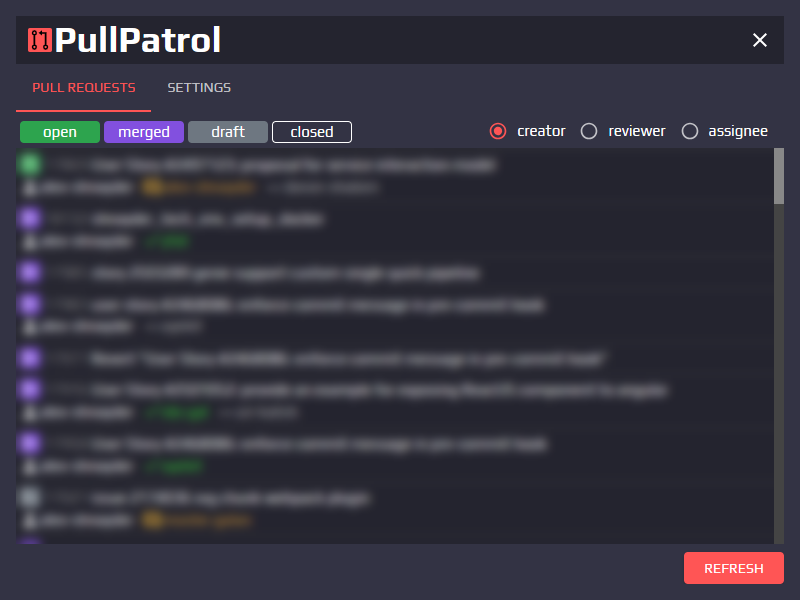
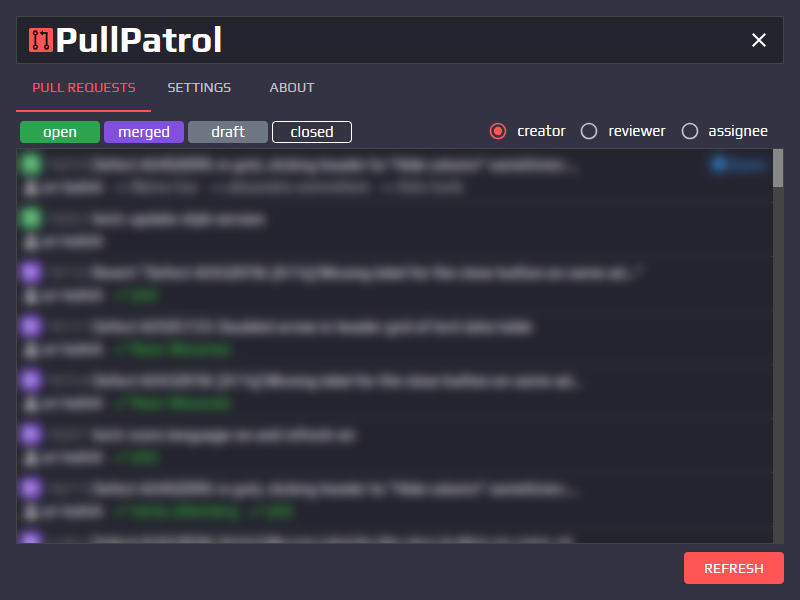
ui styling

diff --git a/client/src/views/PullRequests/PullRequests.tsx b/client/src/views/PullRequests/PullRequests.tsx
@@ -239,61 +239,63 @@ export function PullRequests({ serverUrl, gitHubUserName }: PullRequestsProps) {
                         </FormControl>
                     </div>
                 )}
-                <div className="prs-container custom-scroll">
-                    {prs.map((pr) => (
-                        <div key={pr.number} className={`pr-container content-panel ${pr.state} ${pr.myRole}`}>
-                            <div className="pr-left-side">
-                                <div className="pr-line">
-                                    <div className={`pr-state pr-state--${pr.state}`}>
-                                        <img src={stateToImg[pr.state]} className="pr-state-img" title={pr.state} alt="state image" />
-                                    </div>
-                                    <a href={pr.htmlUrl} target="_blank" className="pr-link">
-                                        <span className="pr-number">{pr.number}</span>
-                                        <span className="pr-title ellipsis" title={pr.title}>
-                                            {pr.title}
-                                        </span>
-                                    </a>
-                                </div>
-                                <div className="pr-line flex-wrap--wrap">
-                                    <div className="pr-reviewer pr-review-state--owner" title="owner">
-                                        <img src={reviewStateToImg[ReviewState.OWNER]} className="pr-review-state-img" alt="review state" />
-                                        <span className="pr-reviewer-name">{pr.creator}</span>
-                                    </div>
-                                    {pr.reviewers.map((reviewerName) => (
-                                        <div
-                                            key={reviewerName}
-                                            className={`pr-reviewer pr-review-state--${getReviewStateForReviewer(pr, reviewerName)}`}
-                                            title={getReviewStateForReviewer(pr, reviewerName).replace('_', ' ')}
-                                        >
-                                            <img src={getImgSrcForReviewState(pr, reviewerName)} className="pr-review-state-img" alt="review state" />
-                                            <span className="pr-reviewer-name">{reviewerName}</span>
+                {prs.length > 0 && (
+                    <div className="prs-container content-panel border custom-scroll">
+                        {prs.map((pr) => (
+                            <div key={pr.number} className={`pr-container ${pr.state} ${pr.myRole}`}>
+                                <div className="pr-left-side">
+                                    <div className="pr-line">
+                                        <div className={`pr-state pr-state--${pr.state}`}>
+                                            <img src={stateToImg[pr.state]} className="pr-state-img" title={pr.state} alt="state image" />
                                         </div>
-                                    ))}
-                                </div>
-                            </div>
-                            <div className="pr-right-side">
-                                {pr.builds.length > 0 && (
-                                    <>
-                                        {getLatestCustomBuilds(pr).map((b) => (
-                                            <div className="pr-line flex-wrap--wrap">
-                                                <div
-                                                    key={b.url}
-                                                    className={`custom-build custom-build--${b.inProgress ? 'running' : b.result.toLowerCase()}`}
-                                                    title={b.inProgress ? 'running' : b.result.toLowerCase()}
-                                                >
-                                                    <div className="build-led"></div>
-                                                    <a href={b.url} target="_blank" className="pr-link">
-                                                        <span className="custom-build-title">{getBuildShortName(b.jobType)}</span>
-                                                    </a>
-                                                </div>
+                                        <a href={pr.htmlUrl} target="_blank" className="pr-link">
+                                            <span className="pr-number">{pr.number}</span>
+                                            <span className="pr-title ellipsis" title={pr.title}>
+                                                {pr.title}
+                                            </span>
+                                        </a>
+                                    </div>
+                                    <div className="pr-line flex-wrap--wrap">
+                                        <div className="pr-reviewer pr-review-state--owner" title="owner">
+                                            <img src={reviewStateToImg[ReviewState.OWNER]} className="pr-review-state-img" alt="review state" />
+                                            <span className="pr-reviewer-name">{pr.creator}</span>
+                                        </div>
+                                        {pr.reviewers.map((reviewerName) => (
+                                            <div
+                                                key={reviewerName}
+                                                className={`pr-reviewer pr-review-state--${getReviewStateForReviewer(pr, reviewerName)}`}
+                                                title={getReviewStateForReviewer(pr, reviewerName).replace('_', ' ')}
+                                            >
+                                                <img src={getImgSrcForReviewState(pr, reviewerName)} className="pr-review-state-img" alt="review state" />
+                                                <span className="pr-reviewer-name">{reviewerName}</span>
                                             </div>
                                         ))}
-                                    </>
-                                )}
+                                    </div>
+                                </div>
+                                <div className="pr-right-side">
+                                    {pr.builds.length > 0 && (
+                                        <>
+                                            {getLatestCustomBuilds(pr).map((b) => (
+                                                <div className="pr-line flex-wrap--wrap">
+                                                    <div
+                                                        key={b.url}
+                                                        className={`custom-build custom-build--${b.inProgress ? 'running' : b.result.toLowerCase()}`}
+                                                        title={b.inProgress ? 'running' : b.result.toLowerCase()}
+                                                    >
+                                                        <div className="build-led"></div>
+                                                        <a href={b.url} target="_blank" className="pr-link">
+                                                            <span className="custom-build-title">{getBuildShortName(b.jobType)}</span>
+                                                        </a>
+                                                    </div>
+                                                </div>
+                                            ))}
+                                        </>
+                                    )}
+                                </div>
                             </div>
-                        </div>
-                    ))}
-                </div>
+                        ))}
+                    </div>
+                )}
             </div>
             <div className="actions-panel">
                 <Button variant="contained" onClick={handleRefresh} disabled={loading}>

diff --git a/client/src/views/Settings/Settings.tsx b/client/src/views/Settings/Settings.tsx
@@ -51,7 +51,7 @@ export function Settings({ config, onSaveConfig }: SettingsProps) {
 
     return (
         <div className="settings content-with-actions">
-            <div className="content-panel">
+            <div className="content-panel border">
                 <div className="settings-form">
                     <FormControl>
                         <TextField id="server-url" label="Server URL" variant="outlined" value={serverUrl} error={!serverUrl} onChange={handleChangeServerUrl} />

diff --git a/client/src/index.css b/client/src/index.css
@@ -75,7 +75,6 @@ body {
 
 .content-panel {
     position: relative;
-    overflow: hidden;
     background-color: rgba(0, 0, 0, 0.5);
 }
 .theme--dark .content-panel {
@@ -83,10 +82,6 @@ body {
 }
 .theme--bokeh .content-panel {
     background-color: rgba(0, 0, 0, 0.6);
-}
-
-.content-panel > div {
-    position: relative;
 }
 
 .actions-panel {
@@ -139,4 +134,8 @@ body {
 
 .flex-wrap--wrap {
     flex-wrap: wrap;
+}
+
+.border {
+    border: 1px solid #444;
 }

diff --git a/client/src/views/About/About.tsx b/client/src/views/About/About.tsx
@@ -4,7 +4,7 @@ import { APP_VERSION } from '../../services/constants.ts';
 export function About() {
     return (
         <div className="about content-with-actions">
-            <div className="content-panel">
+            <div className="content-panel border">
                 <div className="about-form">
                     <div className="about-label">Version</div>
                     <div className="about-value">{APP_VERSION}</div>

diff --git a/client/src/components/AppMasthead/AppMasthead.tsx b/client/src/components/AppMasthead/AppMasthead.tsx
@@ -11,7 +11,7 @@ export function AppMasthead() {
     }, []);
 
     return (
-        <div className="content-panel masthead">
+        <div className="content-panel border masthead">
             <div className="header">
                 <div>
                     <img src={prImg} className="header-image" alt="icon" />

diff --git a/client/src/views/PullRequests/PullRequests.css b/client/src/views/PullRequests/PullRequests.css
@@ -109,7 +109,7 @@
 
 .pr-container {
     display: none;
-    border-top: 1px solid #444;
+    border-bottom: 1px solid #444;
     padding: 4px;
     grid-template-columns: 1fr 60px;
     grid-template-rows: auto;
